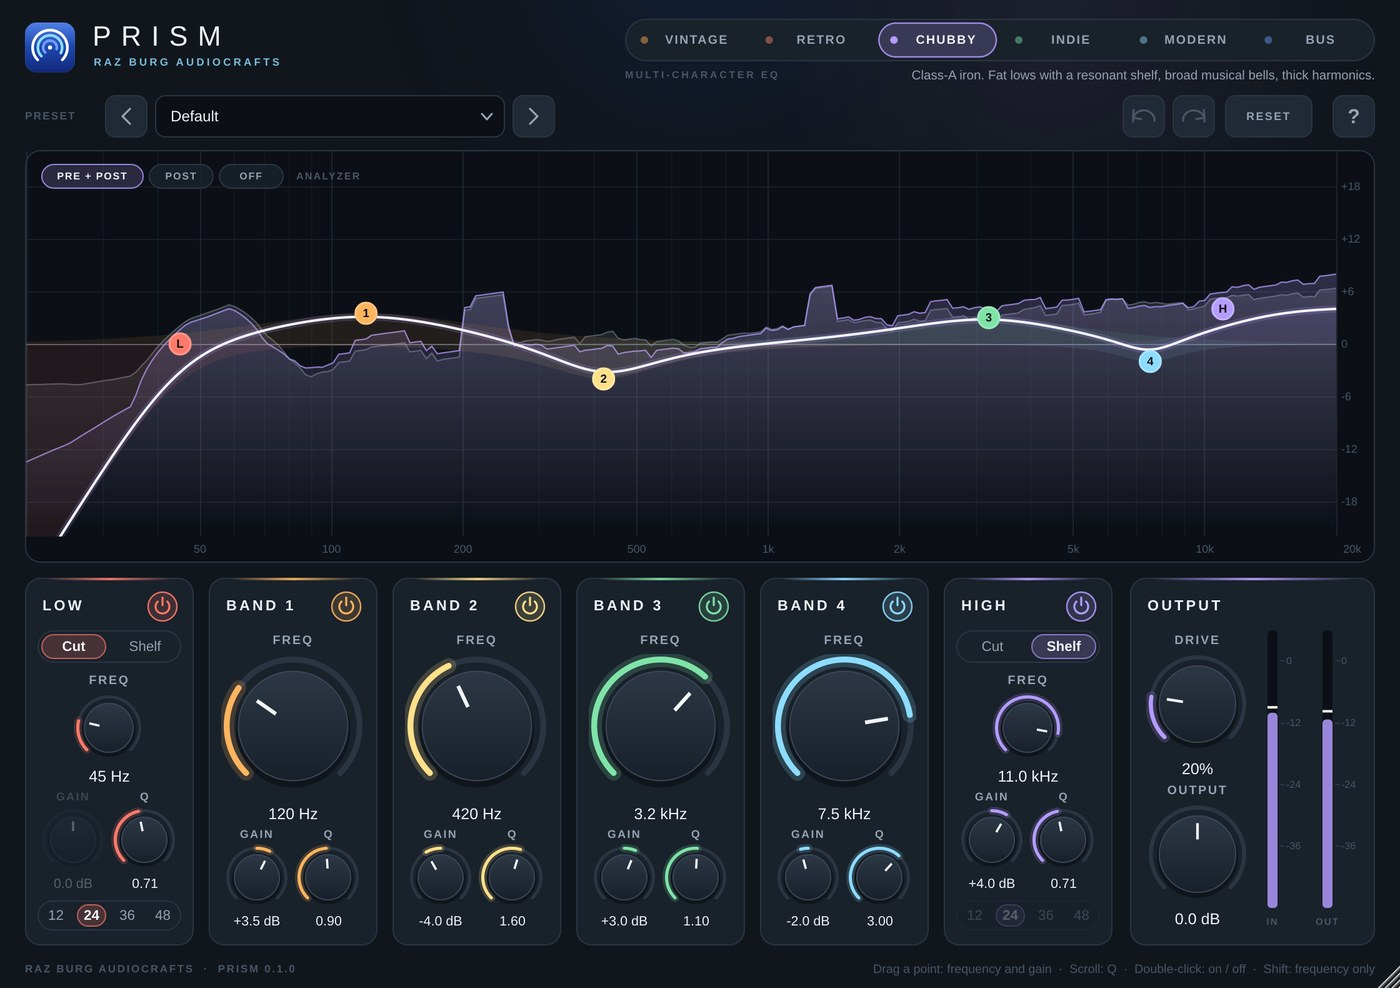
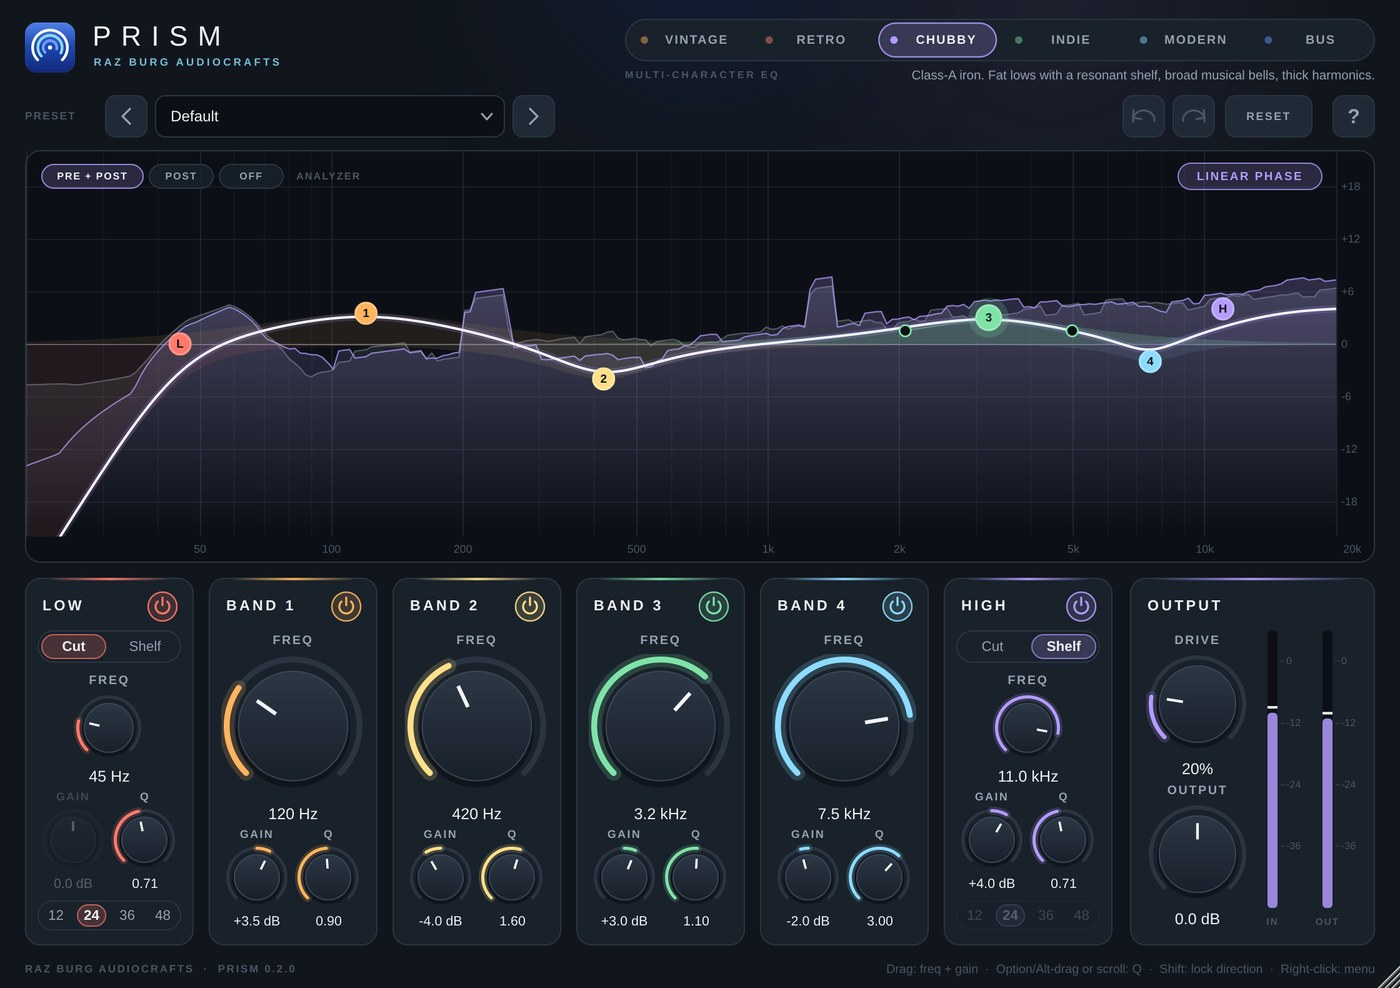
Prism page: Linear Phase and graph controls
Claude-Session: https://claude.ai/code/session_01EGCnYcrxC9E3NaxUdBgYro

diff --git a/prism/index.html b/prism/index.html
@@ -47,12 +47,12 @@
 <div class="big"><img src="/img/prism.jpg" alt="Prism EQ interface with the curve display over a live spectrum, six band strips and the Output section" width="1400" height="988" fetchpriority="high"></div>
 </div>
 </section>
-<div class="pspecs"><div class="wrap"><div class="specs"><div><b class="num">6</b><span>EQ modes, one set of controls</span></div><div><b class="num">6</b><span>Bands: low cut or shelf, four bells, high cut or shelf</span></div><div><b class="num">0</b><span>Samples of latency</span></div><div><b class="num">2</b><span>Spectrums: before and after the EQ</span></div></div></div></div>
+<div class="pspecs"><div class="wrap"><div class="specs"><div><b class="num">6</b><span>EQ modes, one set of controls</span></div><div><b class="num">6</b><span>Bands: low cut or shelf, four bells, high cut or shelf</span></div><div><b class="num">0</b><span>Samples of latency, or Linear Phase when you need it</span></div><div><b class="num">2</b><span>Spectrums: before and after the EQ</span></div></div></div></div>
 
 <section class="sec">
 <div class="wrap">
-<div class="sec-head rv"><div><div class="eyebrow">Features</div><h2>See what you hear. Hear it six ways.</h2></div><p>A classic six-band layout with a display that shows exactly what the EQ is doing to your track.</p></div>
-<div class="feat-grid rv"><div class="feat"><h3>Six modes</h3><p>Each mode reshapes the bells, the shelves and the filters the way its family of classic EQs does, and has its own analog stage.</p></div><div class="feat"><h3>Live spectrum</h3><p>The source before the EQ in gray, the result after it in color, with the EQ curve drawn on top.</p></div><div class="feat"><h3>Drag to shape</h3><p>Drag a point for frequency and gain, scroll for Q, double-click to switch a band on or off.</p></div><div class="feat"><h3>Cut or shelf</h3><p>The low and high bands work as a cut from 12 to 48 dB per octave or as a shelf.</p></div><div class="feat"><h3>Drive</h3><p>Push the analog stage of the selected mode for harmonics, weight and softness. At zero the path stays completely clean.</p></div><div class="feat"><h3>Built for sessions</h3><p>Zero latency, curves that keep their shape right up to 20 kHz, presets, 100-step undo and redo and a built-in user guide.</p></div></div>
+<div class="sec-head rv"><div><div class="eyebrow">Features</div><h2>See what you hear. Hear it six ways.</h2></div><p>A classic six-band layout with a display that shows exactly what the EQ is doing to your track, and lets you do everything right on it.</p></div>
+<div class="feat-grid rv"><div class="feat"><h3>Six modes</h3><p>Each mode reshapes the bells, the shelves and the filters the way its family of classic EQs does, and has its own analog stage.</p></div><div class="feat"><h3>Live spectrum</h3><p>The source before the EQ in gray, the result after it in color, with the EQ curve drawn on top.</p></div><div class="feat"><h3>Everything on the graph</h3><p>Drag a point for frequency and gain, Option-drag or scroll for Q, pull the width handles, Shift to lock a direction, right-click for type and slope.</p></div><div class="feat"><h3>Cut or shelf</h3><p>The low and high bands work as a cut from 12 to 48 dB per octave or as a shelf.</p></div><div class="feat"><h3>Drive</h3><p>Push the analog stage of the selected mode for harmonics, weight and softness. At zero the path stays completely clean.</p></div><div class="feat"><h3>Linear Phase</h3><p>One switch removes all phase shift, for the mix bus, mastering and tracks that share a source. Off, Prism runs at zero latency.</p></div><div class="feat"><h3>Built for sessions</h3><p>Curves that keep their shape right up to 20 kHz, presets, 100-step undo and redo and a built-in user guide.</p></div></div>
 </div>
 </section>
 <section class="sec" style="border-top:1px solid var(--line);background:var(--bg2)">

diff --git a/index.html b/index.html
@@ -148,7 +148,7 @@
 <div class="eyebrow">Multi-character EQ · Coming soon</div>
 <h2>Prism</h2>
 <p class="tag">Six EQs. The same controls.</p>
-<p>Shape your sound once, then switch between Vintage, Retro, Chubby, Indie, Modern and Bus to hear the same curve in six different voices. A low cut or shelf, four bands, a high cut or shelf, and a big display that shows the source before the EQ with the result layered on top.</p>
+<p>Shape your sound once, then switch between Vintage, Retro, Chubby, Indie, Modern and Bus to hear the same curve in six different voices. A low cut or shelf, four bands, a high cut or shelf, and a big display that shows the source before the EQ with the result layered on top. Shape everything right on the graph, and switch to Linear Phase when timing matters.</p>
 <div class="btns"><a class="btn btn-accent" href="/prism/">Preview Prism</a></div>
 <p class="meta"><b>Coming soon</b> · AAX, AU, VST3 · macOS and Windows</p>
 </div>
@@ -157,8 +157,8 @@
 <div class="wrap under"><div class="specs rv">
 <div><b class="num">6</b><span>EQ modes, one set of controls</span></div>
 <div><b class="num">6</b><span>Bands: low cut or shelf, four bells, high cut or shelf</span></div>
-<div><b class="num">0</b><span>Samples of latency</span></div>
-<div><b class="num">48</b><span>dB per octave cuts at most</span></div>
+<div><b class="num">0</b><span>Samples of latency in normal mode</span></div>
+<div><b class="num">0</b><span>Phase shift with Linear Phase on</span></div>
 </div></div>
 </section>
 
